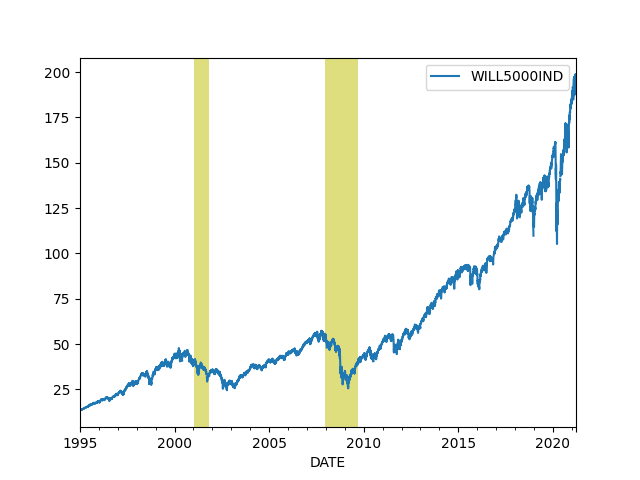
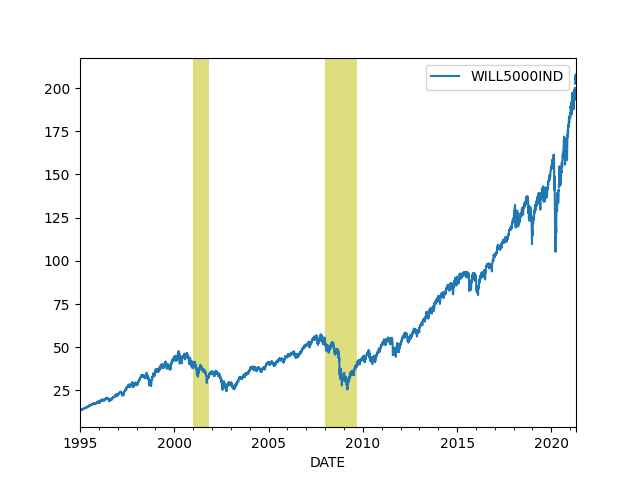
-

diff --git a/en/README.md b/en/README.md
@@ -1,123 +1,134 @@
 # Tweets
 
-Wanna be outdoors, be outdoors. Hike, camp whatever. Be outdoors like
-like a forager, the way we've lived for half a million years.
+"@axios
 
-"But I want to be outdoors, work the land"
-
----
-
-Since the approach is well contained and controlled, I bet it can be
-fully automated one day.. Load up seeds from one end, come back in two
-months to get your fully grown beans from the other end..
+President Biden in the next few days will unveil eye-popping new tax
+rates for the wealthiest Americans —a top marginal income tax rate of
+39.6% and a capital gains rate of 43.4%"
 
 ---
 
-VF approach uses artificial light, artificial soil, utilizes less
-water, it is a completely contained environment can be easier to
-protect against chaotic weather, harmful instects (less need for
-pesticides, another bonus).
+"Solid Continua" 😶
 
 ---
 
-<img width="340" src="https://pbs.twimg.com/media/Ezoq6tuXsAEFmsv?format=jpg&name=small"/>
+Smooth Genestar - Blu Country \#music
+
+[Link](https://youtu.be/Rn-kVWnHPmY?t=5674)
 
 ---
 
-"Vertical or indoor farming is increasingly heralded as the future of
-modern agriculture... These companies have been able to raise millions
-of dollars to expand their current facilities and establish new
-ones...
+NYT (12/22/2020): "To help Pfizer, the deal calls for the government
+to invoke the Defense Production Act to give the company better access
+to roughly nine specialized products it needs to make the vaccine. One
+person familiar with the list said it included lipids, the oily
+molecules in which the genetic material that is used in both the
+Moderna and Pfizer vaccines is encased"
 
-Fundamental to the creation of a perfect indoor farming environment
-for both small and large operations is the availability of affordable,
-sophisticated lighting technologies. In fact, there are many different
-types of grow lights... 
-
-In its simplest definition, a grow light is an artificial source of
-light, commonly an electric light, which is designed to stimulate the
-growth of plants by emitting an electromagnetic spectrum perfect for
-photosynthesis"
-
-[Link](https://www.thebalancesmb.com/grow-light-options-for-indoor-and-vertical-farming-4147429)
+[Link](https://www.nytimes.com/2020/12/22/us/politics/pfizer-vaccine-doses.html)
 
 ---
 
-<img width="340" src="https://pbs.twimg.com/media/EzoqgiOXMAEnHCY?format=jpg&name=small"/>
+What are the raw materials? SciAm [says](https://www.scientificamerican.com/article/new-covid-vaccines-need-absurd-amounts-of-material-and-labor1/)
+polymerases, caccinia capping enzyme (VCE)
 
 ---
 
-"Vertical farming is the practice of producing food on vertically
-inclined surfaces. Instead of farming vegetables and other foods on a
-single level, such as in a field or a greenhouse, this method produces
-foods in vertically stacked layers commonly integrated into other
-structures like a skyscraper, shipping container or repurposed
-warehouse...
+Cant say I blame them
 
-Instead of soil, aeroponic, aquaponic or hydroponic growing mediums
-are used. Peat moss or coconut husks and similar non-soil mediums are
-very common in vertical farming. Finally, the vertical farming method
-uses various sustainability features to offset the energy cost of
-farming. In fact, vertical farming uses 95% less water"
+@sidhant
 
-[Link](https://www.thebalancesmb.com/what-you-should-know-about-vertical-farming-4144786)
+"United States first and foremost is engaged in an ambitious and
+effective and, so far, successful effort to vaccinate the American
+people", US State Dept when asked about #COVID vaccine raw materials
+export to India"
 
 ---
 
-Our focus is fundamental tech, not trinkets. 
+We've achieved much but there are still holes in the grand knowledge,
+on some fundamental questions.
 
 ---
 
-Toiling away on a piece of land, throwing bunch of shit on the soil,
-(pesticides etc seeping into the soil). Isnt this incredibly outdated?
-Technology should transform this field..
+Frankly it was a bit surprising at first seeing sci folk still do not
+know why planes fly. But then u think about misconceptions around
+black holes, the big-bang, gasesous sun, then you are like 'yeah mfers
+could eff that up no problem'.
+
+It is encouraging in some ways in that there is much to do.
 
 ---
 
-<blockquote class="twitter-tweet"><p lang="en" dir="ltr">It&#39;s pretty clean.</p>&mdash; Philip Bump (@pbump) <a href="https://twitter.com/pbump/status/1385253752685408260?ref_src=twsrc%5Etfw">April 22, 2021</a></blockquote> <script async src="https://platform.twitter.com/widgets.js" charset="utf-8"></script>
+Was just thinking about this today.. and bingo found this
+
+<blockquote class="twitter-tweet"><p lang="en" dir="ltr">tl;dr<br>- it&#39;s not just bernoulli&#39;s principle<br>- it&#39;s in large part just air deflection downward<br>- the equal transit time for the top and bottom of the wing is bullshit<br>- the blowing air over paper example is bullshit<br>- asking hard questions is tough and i&#39;m glad some ppl do it</p>&mdash; thinkagainer of the thought palace (~129 yrs old) (@thinkagainer) <a href="https://twitter.com/thinkagainer/status/1307849362295394305?ref_src=twsrc%5Etfw">September 21, 2020</a></blockquote> <script async src="https://platform.twitter.com/widgets.js" charset="utf-8"></script>
 
 ---
 
-As the Oz Prime Minister says: "technology first"
+The 90s-2010s period was spent on "barbarians at the gates"
+narrative..  this narrative was excessive. Old Guard is still there,
+carries some influence.. Notice "the Internet Guy" Bezos bought WaPo
+joining the guard, rather than start his own thing doing "dhat
+disrupting binness".
 
 ---
 
-"@PaulEremenko
+SSt cld provide a springboard to new outlets, those outlets need to
+grow institutional muscle tho to compete
 
-Thoughtful piece from @timhepher at @Reuters captures key issue..
-@Universal_H2 can decarbonize regional aviation in the 2020s--no
-problem. The big challenge is to de-risk hydrogen for @Boeing &
-@Airbus to make 737 & A320 successor in 2030s zero-emissions!"
-Otherwise there's no way for aviation to meet Paris Agreement
-targets. Synfuels and biofuels are a partial carbon offset scheme that
-doesn't get us to the 1.5°C emissions trajectory. There just isn't
-another way!
+Slate: "Substack today has somewhere north of 500,000 paid
+subscribers, which represents a meteoric growth rate [but is still
+just a fraction of, say, the New York Times’ 7.5 million... A key to
+understanding Substack’s impact on the news is to recognize that the
+kind of journalism that tends to thrive there—so far, at least for the
+most part—is not actually news. It’s commentary and analysis, aimed at
+the chattering classes"
 
----
-
-Reuters: "Universal Hydrogen, a U.S.-based firm planning to provide
-hydrogen propulsion for regional aircraft, said on Thursday it would
-accelerate development after raising $20.5 million in funds amid a
-debate over carbon-free aviation"
+[Link](https://slate.com/business/2021/04/substack-media-new-york-times-subscriptions-poaching.amp?__twitter_impression=true)
 
 ---
 
-On Wirecard fin troubles and Germany.. some of the self-flagellation is
-probably unnecessary but interesting story 
+But.. but.. we are globalized and shit, travel freedom earth is flat
+blah blah
 
-[Link](https://newrepublic.com/article/162084/weird-extremely-german-origins-wirecard-scandal)
+"Vietnam defied the experts and sealed its border to keep Covid-19
+out. It worked... How the country has kept coronavirus deaths to just
+35, and grew its economy in 2020"
 
----
-
-Cld insert all recent GDELT data files into a lite SQL DB, then
-anytime something happens to a country can go back in time and find
-all actions that was done to that country until that event, diplo
-warnings, attacks, etc. look at the source groups and try to see
-patterns.. \#ifIHadTheTime
+[Link](https://www.vox.com/platform/amp/22346085/covid-19-vietnam-response-travel-restrictions)
 
 ---
 
-<blockquote class="twitter-tweet"><p lang="en" dir="ltr">I bought a desk light. then I opened the box and discovered I had to install an app to control my desk light</p>&mdash; Adrienne Porter Felt (@__apf__) <a href="https://twitter.com/__apf__/status/1385370756016611333?ref_src=twsrc%5Etfw">April 22, 2021</a></blockquote> <script async src="https://platform.twitter.com/widgets.js" charset="utf-8"></script>
+---
+
+"@qrs
+
+The clothes dryer is installing an over the air firmware update"
+
+<img width="340" src="https://pbs.twimg.com/media/EwHmiRtXEAEmmTN?format=jpg&name=small"/>
+
+---
+
+Oil Price: "The Hydrogen Boom Will Provide A $200B Boost To Wind And Solar Energy"
+
+---
+
+@h2_view
+
+The #UK is set for what could be its first ever conversion of a diesel locomotive to run on #hydrogen power which will then be put into operation by the #SevenValleyRailway.
+
+---
+
+\#trek \#voyager Of course they could beam a baby rigbt out of mother's vomb 
+
+---
+
+Denialism is not that surprising.. the entire being of these people is made-up,
+denialism is just another set of fairy tales
+
+---
+
+"Grundlagen und Anwendungen" 😶
 
 ---
 

diff --git a/en/tweets/2021/week16.md b/en/tweets/2021/week16.md
@@ -1,5 +1,126 @@
 # Week 16
 
+Wanna be outdoors, be outdoors. Hike, camp whatever. Be outdoors like
+like a forager, the way we've lived for half a million years.
+
+"But I want to be outdoors, work the land"
+
+---
+
+Since the approach is well contained and controlled, I bet it can be
+fully automated one day.. Load up seeds from one end, come back in two
+months to get your fully grown beans from the other end..
+
+---
+
+VF approach uses artificial light, artificial soil, utilizes less
+water, it is a completely contained environment can be easier to
+protect against chaotic weather, harmful instects (less need for
+pesticides, another bonus).
+
+---
+
+<img width="340" src="https://pbs.twimg.com/media/Ezoq6tuXsAEFmsv?format=jpg&name=small"/>
+
+---
+
+"Vertical or indoor farming is increasingly heralded as the future of
+modern agriculture... These companies have been able to raise millions
+of dollars to expand their current facilities and establish new
+ones...
+
+Fundamental to the creation of a perfect indoor farming environment
+for both small and large operations is the availability of affordable,
+sophisticated lighting technologies. In fact, there are many different
+types of grow lights... 
+
+In its simplest definition, a grow light is an artificial source of
+light, commonly an electric light, which is designed to stimulate the
+growth of plants by emitting an electromagnetic spectrum perfect for
+photosynthesis"
+
+[Link](https://www.thebalancesmb.com/grow-light-options-for-indoor-and-vertical-farming-4147429)
+
+---
+
+<img width="340" src="https://pbs.twimg.com/media/EzoqgiOXMAEnHCY?format=jpg&name=small"/>
+
+---
+
+"Vertical farming is the practice of producing food on vertically
+inclined surfaces. Instead of farming vegetables and other foods on a
+single level, such as in a field or a greenhouse, this method produces
+foods in vertically stacked layers commonly integrated into other
+structures like a skyscraper, shipping container or repurposed
+warehouse...
+
+Instead of soil, aeroponic, aquaponic or hydroponic growing mediums
+are used. Peat moss or coconut husks and similar non-soil mediums are
+very common in vertical farming. Finally, the vertical farming method
+uses various sustainability features to offset the energy cost of
+farming. In fact, vertical farming uses 95% less water"
+
+[Link](https://www.thebalancesmb.com/what-you-should-know-about-vertical-farming-4144786)
+
+---
+
+Our focus is fundamental tech, not trinkets. 
+
+---
+
+Toiling away on a piece of land, throwing bunch of shit on the soil,
+(pesticides etc seeping into the soil). Isnt this incredibly outdated?
+Technology should transform this field..
+
+---
+
+<blockquote class="twitter-tweet"><p lang="en" dir="ltr">It&#39;s pretty clean.</p>&mdash; Philip Bump (@pbump) <a href="https://twitter.com/pbump/status/1385253752685408260?ref_src=twsrc%5Etfw">April 22, 2021</a></blockquote> <script async src="https://platform.twitter.com/widgets.js" charset="utf-8"></script>
+
+---
+
+As the Oz Prime Minister says: "technology first"
+
+---
+
+"@PaulEremenko
+
+Thoughtful piece from @timhepher at @Reuters captures key issue..
+@Universal_H2 can decarbonize regional aviation in the 2020s--no
+problem. The big challenge is to de-risk hydrogen for @Boeing &
+@Airbus to make 737 & A320 successor in 2030s zero-emissions!"
+Otherwise there's no way for aviation to meet Paris Agreement
+targets. Synfuels and biofuels are a partial carbon offset scheme that
+doesn't get us to the 1.5°C emissions trajectory. There just isn't
+another way!
+
+---
+
+Reuters: "Universal Hydrogen, a U.S.-based firm planning to provide
+hydrogen propulsion for regional aircraft, said on Thursday it would
+accelerate development after raising $20.5 million in funds amid a
+debate over carbon-free aviation"
+
+---
+
+On Wirecard fin troubles and Germany.. some of the self-flagellation is
+probably unnecessary but interesting story 
+
+[Link](https://newrepublic.com/article/162084/weird-extremely-german-origins-wirecard-scandal)
+
+---
+
+Cld insert all recent GDELT data files into a lite SQL DB, then
+anytime something happens to a country can go back in time and find
+all actions that was done to that country until that event, diplo
+warnings, attacks, etc. look at the source groups and try to see
+patterns.. \#ifIHadTheTime
+
+---
+
+<blockquote class="twitter-tweet"><p lang="en" dir="ltr">I bought a desk light. then I opened the box and discovered I had to install an app to control my desk light</p>&mdash; Adrienne Porter Felt (@__apf__) <a href="https://twitter.com/__apf__/status/1385370756016611333?ref_src=twsrc%5Etfw">April 22, 2021</a></blockquote> <script async src="https://platform.twitter.com/widgets.js" charset="utf-8"></script>
+
+---
+
 <blockquote class="twitter-tweet"><p lang="en" dir="ltr">Today is <a href="https://twitter.com/hashtag/EarthDay2021?src=hash&amp;ref_src=twsrc%5Etfw">#EarthDay2021</a>, and we&#39;re excited to announce our investment in <a href="https://twitter.com/Universal_H2?ref_src=twsrc%5Etfw">@Universal_H2</a>, which is working to make carbon-free commercial flight a near-term reality. Learn more about why we invested in <a href="https://twitter.com/jim_adler?ref_src=twsrc%5Etfw">@Jim_Adler</a>&#39;s blog post: <a href="https://t.co/o3njSNSuTP">https://t.co/o3njSNSuTP</a> <a href="https://t.co/UR17YlsaGo">pic.twitter.com/UR17YlsaGo</a></p>&mdash; Toyota AI Ventures (@Toyota_AI_VC) <a href="https://twitter.com/Toyota_AI_VC/status/1385264096849715200?ref_src=twsrc%5Etfw">April 22, 2021</a></blockquote> <script async src="https://platform.twitter.com/widgets.js" charset="utf-8"></script>
 
 ---

diff --git a/tr/2020/07/gocebele-anadolu.md b/tr/2020/07/gocebele-anadolu.md
@@ -89,6 +89,30 @@ yapılıyor) 2) Türk insanları göçlere kucak açmıştır ve gelenlerin
 burada) 3) Türk insanının kendisi sonradan da tekrar göçmeye
 başlamıştır (kabaca 20'inci yüzyıla referans)
 
+Ankete cevap verenlere göre Türklerin tarihinin en tanımlayıcı kısmı
+göçmektir, ve göçme kültürüyle temelden bir ilişkide olmaktır, göçebe
+insanlar olmak ve yüzlerce yıl sürekli göçme halinde olmaktır. Bu mealdeki
+ifadelerin bazılar şöyleydi:
+
+>Türklerin gidiş yönü her zaman Batı'ya doğru olmuştur. Orta Asya'dan
+>geldik Vienna kapısına dayandık, şimdi de Batı Avrupa'ya ve yakında
+>Brüksel'e gidiyoruz
+>
+>Bin sene önce Orta Asya'dan geldik. Göçmenlerin coğrafyasından geliyoruz.
+>Bizim kimliğimiz budur.
+>
+>.. kültürel açıdan söylüyorum. Çünkü, Orta Asya'dan göçmüş olmak sebebiyle,
+>yani, bildiğiniz gibi, göçmek bizler için çok normal bir şey
+>
+
+
+
+
+
+
+
+
+
 [devam edecek]
 
 

diff --git a/en/2019/05/stats.md b/en/2019/05/stats.md
@@ -496,10 +496,10 @@ plt.savefig('wilshire.png')
 ```text
             WILL5000IND
 DATE                   
-2021-03-19       195.49
-2021-03-22       196.59
-2021-03-23       194.49
-2021-03-24       192.95
+2021-04-19       206.64
+2021-04-20       204.93
+2021-04-21       207.09
+2021-04-22       205.41
 ```
 
 ![](wilshire.png)
